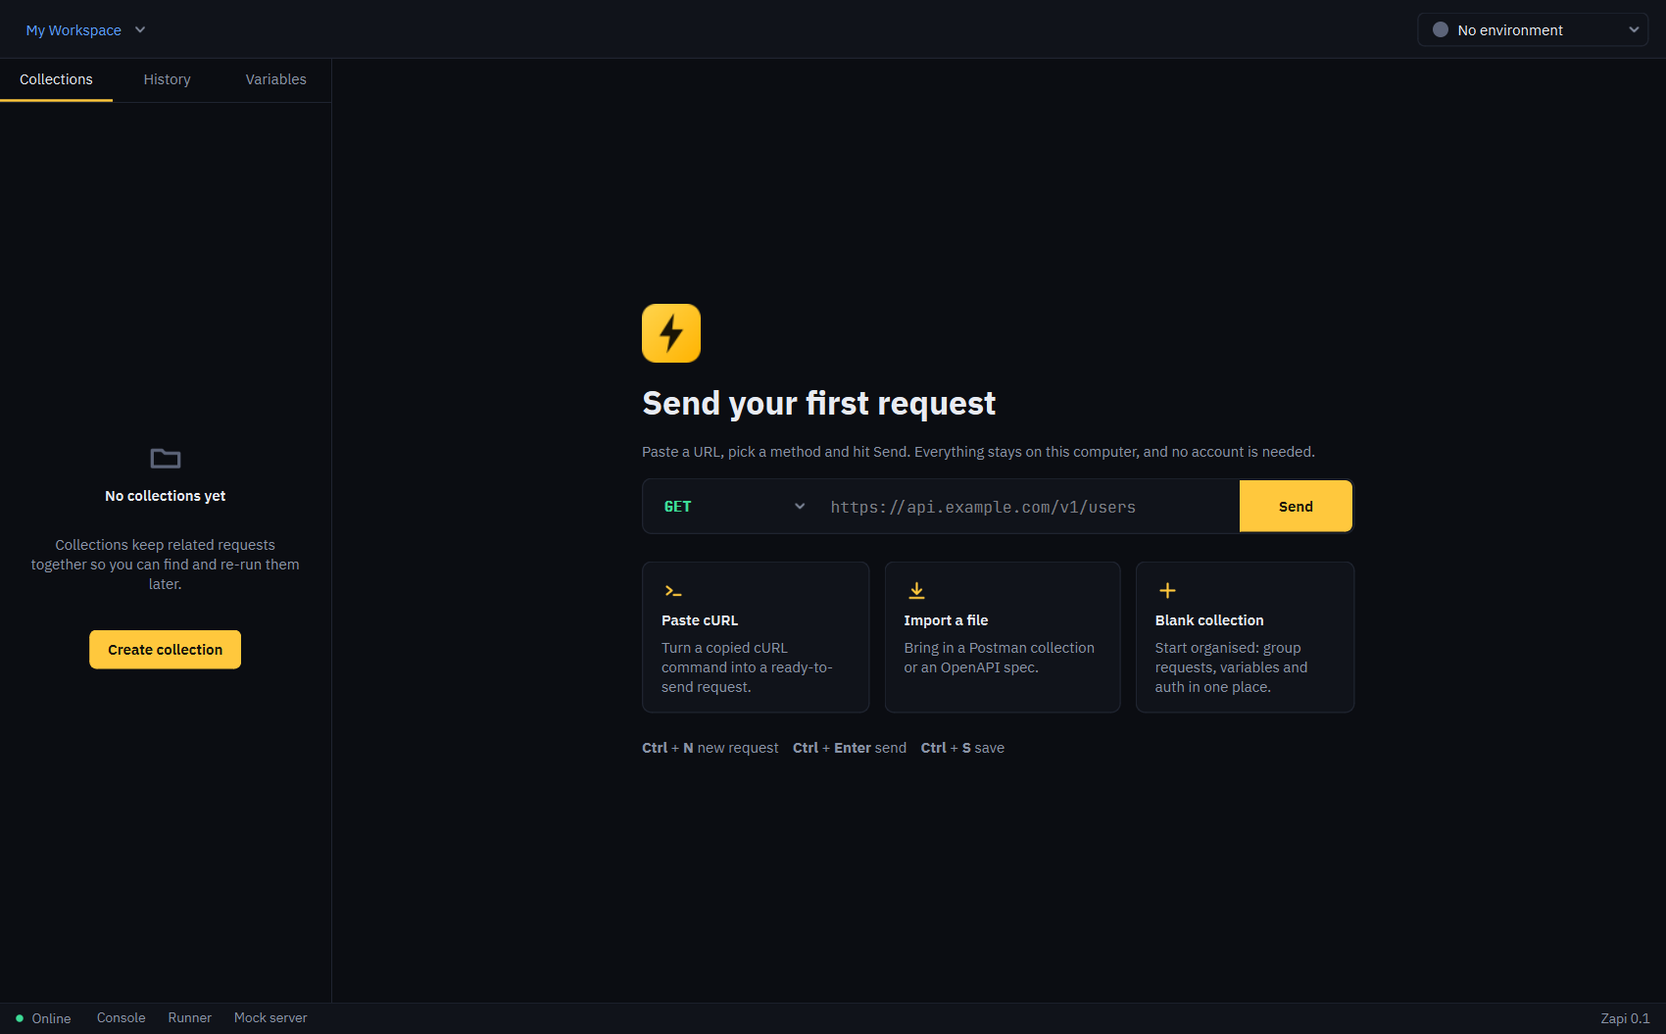
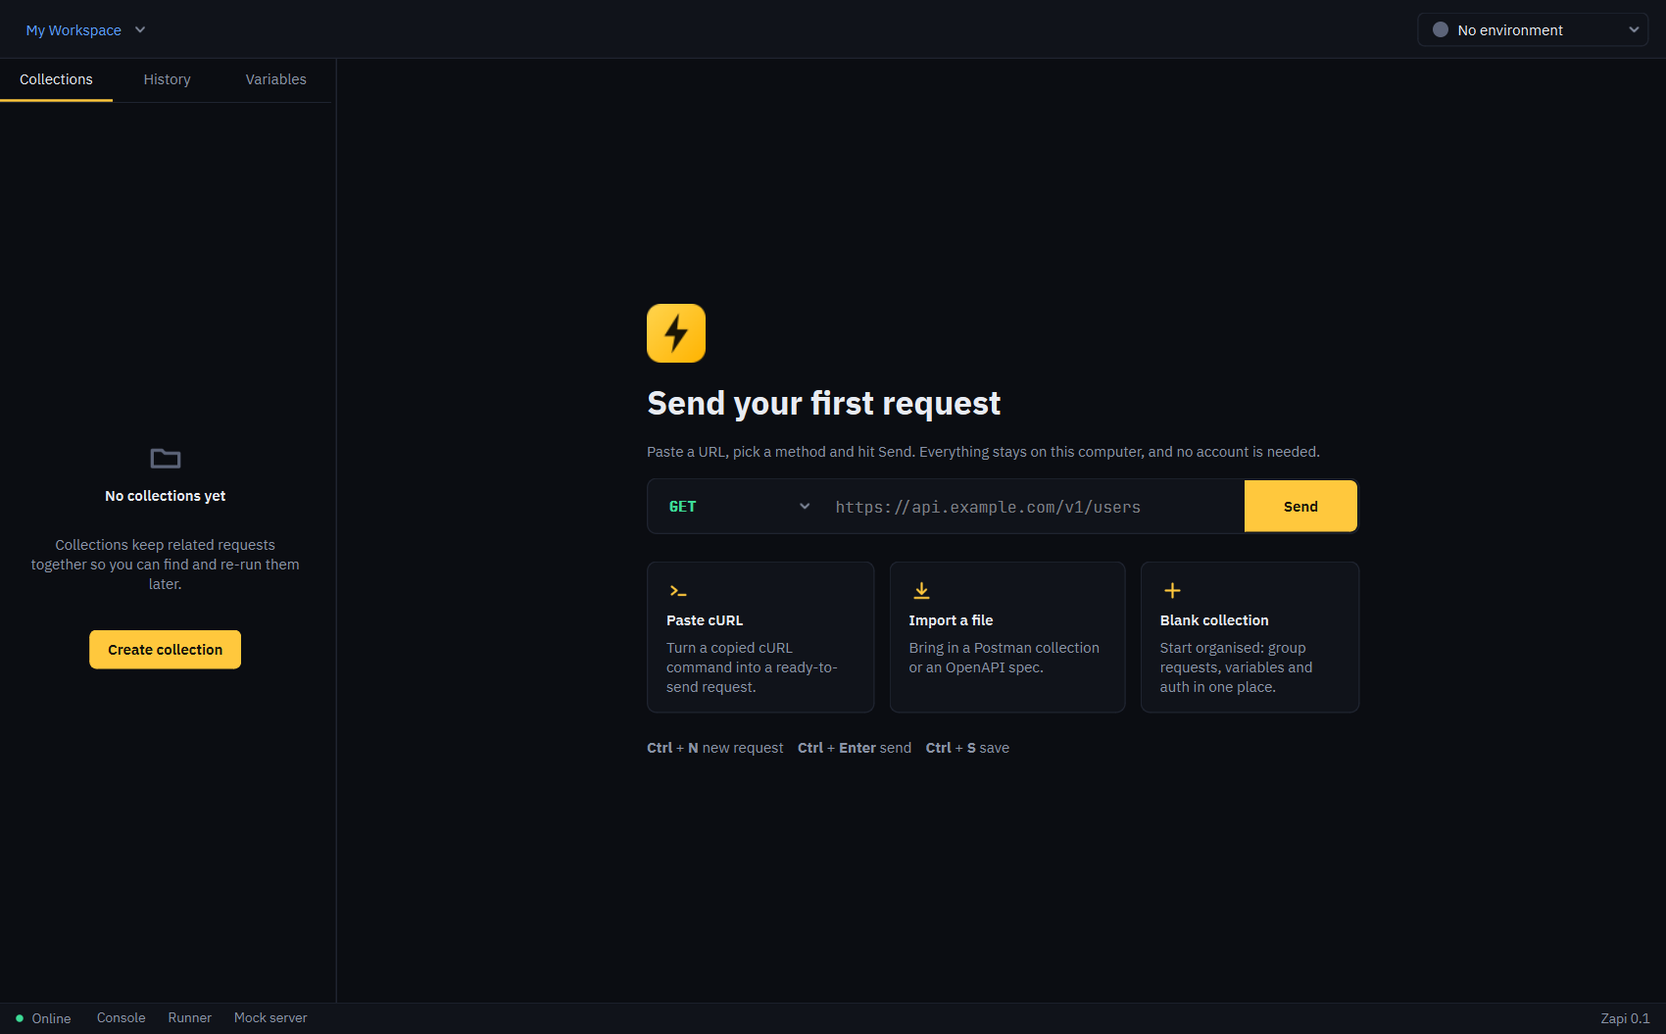
Copy feedback, resizable divider, clearer hints, dropdown hover and light theme fixes
- Copy buttons show a tick and 'Copied' briefly
- Wider request/response divider with hover highlight; panes can be dragged small
- Secret and unresolved-variable hints reworded, auto-hide after 20 s
- Method dropdown: per-verb colours, hover highlight, fixed light-theme background
- Stronger light-theme hover/selection colours with contrast tests
- Refresh screenshots

diff --git a/zapi/request_view.py b/zapi/request_view.py
@@ -16,7 +16,8 @@ from PySide6.QtWidgets import (QApplication, QButtonGroup, QCheckBox, QComboBox,
 from shiboken6 import isValid
 
 from . import curl, http_client, oauth2, store, theme, variable_assist, variables, vault
-from .widgets import CodeEditor, CopyTable, KVEditor, KVTable, Worker, flat, pretty_json, pretty_xml, primary
+from .widgets import (CodeEditor, CopyTable, KVEditor, KVTable, Worker, copy_text, flat, pretty_json, pretty_xml,
+                      primary)
 
 PRETTY_LIMIT = 2 * 1024 * 1024
 
@@ -225,8 +226,11 @@ class RequestView(QWidget):
 
         split = QSplitter(Qt.Vertical)
         split.setChildrenCollapsible(False)
-        split.addWidget(self._build_request_side())
-        split.addWidget(self._build_response_side())
+        top, bottom = self._build_request_side(), self._build_response_side()
+        top.setMinimumHeight(110)               # both halves can be dragged small; without this the layouts' own minimums block it
+        bottom.setMinimumHeight(110)
+        split.addWidget(top)
+        split.addWidget(bottom)
         split.setSizes([330, 300])
         root.addWidget(split, 1)
 
@@ -583,7 +587,7 @@ class RequestView(QWidget):
         if text is None:
             self._say("Nothing to copy yet: send the request first.", ok=False)
             return False
-        QApplication.clipboard().setText(text)
+        copy_text(text, self.copy_btn)
         self._say(f"Copied {names[what]} ({len(text):,} characters)")
         return True
 
@@ -755,7 +759,17 @@ class RequestView(QWidget):
 
     def _style_method(self):
         c = theme.method_color(self.method.currentText())
-        self.method.setStyleSheet(f"color: {c};")
+        # colour only the box itself; the dropdown list keeps normal text and colours each verb by itself
+        self.method.setStyleSheet(f"QComboBox#methodBox {{ color: {c}; }} "
+                                  f"QComboBox#methodBox QAbstractItemView {{ color: {theme.TEXT}; background: {theme.PANEL2}; "
+                                  f"border: 1px solid {theme.BORDER2}; selection-background-color: {theme.SELECTED}; "
+                                  f"selection-color: {theme.TEXT}; padding: 3px; outline: 0; }} "
+                                  f"QComboBox#methodBox QAbstractItemView::item {{ padding: 6px 10px; min-height: 20px; "
+                                  f"border-radius: 4px; }} "
+                                  f"QComboBox#methodBox QAbstractItemView::item:selected {{ background: {theme.SELECTED}; }} "
+                                  f"QComboBox#methodBox QAbstractItemView::item:hover {{ background: {theme.MENU_SEL}; }}")
+        for i in range(self.method.count()):
+            self.method.setItemData(i, QColor(theme.method_color(self.method.itemText(i))), Qt.ForegroundRole)
 
     def _params_changed(self):
         if self._loading:
@@ -867,20 +881,37 @@ class RequestView(QWidget):
                 if n not in missing:
                     missing.append(n)
         if missing:
-            self.warn.setStyleSheet(f"color: {theme.ACCENT}; font-size: 8pt;")
-            self.warn.setText("Unresolved variable" + ("s" if len(missing) > 1 else "") + ": " +
-                              ", ".join(missing) + " - pick an environment or define them under Variables.")
-            self.warn.show()
+            self._advise("Unresolved variable" + ("s" if len(missing) > 1 else "") + ": " + ", ".join(missing) +
+                         ". Select an environment or define them under Variables.")
             return
         risky = [name for name, text in (("pre-request script", r["scripts"]["pre"]), ("tests", r["scripts"]["test"]),
                                          ("body", r["body"]["raw"])) if vault.contains_secret_literal(text)]
         if risky:
-            self.warn.setStyleSheet(f"color: {theme.ACCENT}; font-size: 8pt;")
-            self.warn.setText("The " + " and ".join(risky) + " contain what looks like a secret. It is encrypted on "
-                              "disk and left out of shared exports, but a Secret variable is better: use {{name}} or "
-                              "pm.environment.get('name').")
-            self.warn.show()
+            plural = len(risky) > 1
+            self._advise("The " + " and ".join(risky) + (" contain" if plural else " contains") +
+                         " a value that appears to be a secret. It is encrypted on disk and omitted from shared "
+                         "exports. For stronger protection, store it as a Secret variable and reference it as "
+                         "{{name}} (or pm.environment.get('name') in scripts).")
         else:
+            self._warn_dismissed = None
+            self.warn.hide()
+
+    WARN_SECONDS = 20
+
+    def _advise(self, text):
+        """A persistent hint under the URL bar that hides itself after WARN_SECONDS and stays hidden until it changes."""
+        if text == getattr(self, "_warn_dismissed", None):
+            self.warn.hide()
+            return
+        self.warn.setStyleSheet(f"color: {theme.ACCENT}; font-size: 8pt;")
+        if self.warn.text() != text or not self.warn.isVisible():
+            self.warn.setText(text)
+            QTimer.singleShot(self.WARN_SECONDS * 1000, lambda: self._expire_advice(text))
+        self.warn.show()
+
+    def _expire_advice(self, text):
+        if isValid(self) and self.warn.text() == text:
+            self._warn_dismissed = text
             self.warn.hide()
 
     def refresh_variables(self):

diff --git a/zapi/theme.py b/zapi/theme.py
@@ -18,13 +18,13 @@ PALETTES = {
     "Dark": _DARK,
     "Midnight": {**_DARK, "BG": "#0a0f1e", "PANEL": "#0f1730", "PANEL2": "#151f3f", "FIELD": "#0b1228",
                  "BORDER": "#1b2749", "BORDER2": "#26345f", "TEXT": "#e6ecff", "MUTED": "#8f9bc2",
-                 "FAINT": "#5a6690", "HOVER": "#131d3b", "SELECTED": "#1b2850", "MENU_SEL": "#223261",
+                 "FAINT": "#5a6690", "HOVER": "#131d3b", "SELECTED": "#1b2850", "MENU_SEL": "#202d5b",
                  "BTN_HOVER": "#1c2a52", "LINE_HL": "#111a36", "BLUE": "#6aa5ff", "RED": "#ff6b81"},
     "Light": dict(
         IS_DARK=False, BG="#f6f7f9", PANEL="#ffffff", PANEL2="#eef0f4", FIELD="#ffffff", BORDER="#dfe3ea",
-        BORDER2="#c9cfda", TEXT="#1b2030", MUTED="#5d667a", FAINT="#98a1b3", GREEN="#12894f", RED="#d6334a",
-        BLUE="#2467d8", PURPLE="#7a4fd1", ORANGE="#c4620a", HOVER="#eceff4", SELECTED="#e3e8f1",
-        MENU_SEL="#e3e8f1", BTN_HOVER="#e4e8ef", LINE_HL="#f0f3f8", SYN_STRING="#1a7f4b", SYN_KEY="#1f5fc4",
+        BORDER2="#c9cfda", TEXT="#1b2030", MUTED="#566074", FAINT="#98a1b3", GREEN="#12894f", RED="#d6334a",
+        BLUE="#2467d8", PURPLE="#7a4fd1", ORANGE="#c4620a", HOVER="#e6eaf2", SELECTED="#dae1f1",
+        MENU_SEL="#dae1f1", BTN_HOVER="#dfe4ed", LINE_HL="#f0f3f8", SYN_STRING="#1a7f4b", SYN_KEY="#1f5fc4",
         SYN_NUMBER="#a8570a", SYN_LITERAL="#8a3fc4", M_WS="#0a7f92", M_SSE="#b8346f", M_GRPC="#1b7f75",
         M_SOAP="#8c3aa6"),
     "High contrast": {**_DARK, "BG": "#000000", "PANEL": "#0a0a0a", "PANEL2": "#141414", "FIELD": "#000000",
@@ -240,6 +240,11 @@ def icon(name, color=None, size=18):
     elif name == "copy":
         p.drawRoundedRect(QRectF(s * .34, s * .34, s * .46, s * .46), s * .06, s * .06)
         p.drawPath(_corner(s))
+    elif name == "check":
+        t = QPainterPath(); t.moveTo(s * .22, s * .53); t.lineTo(s * .42, s * .72); t.lineTo(s * .79, s * .3)
+        pen.setWidthF(s * .11)
+        p.setPen(pen)
+        p.drawPath(t)
     elif name == "code":
         a = QPainterPath(); a.moveTo(s * .38, s * .3); a.lineTo(s * .18, s * .5); a.lineTo(s * .38, s * .7)
         b = QPainterPath(); b.moveTo(s * .62, s * .3); b.lineTo(s * .82, s * .5); b.lineTo(s * .62, s * .7)
@@ -540,6 +545,10 @@ QComboBox::drop-down {{ border: none; width: 22px; }}
 QComboBox::down-arrow {{ image: url({chev}); width: 14px; height: 14px; }}
 QComboBox QAbstractItemView {{ background: {PANEL2}; border: 1px solid {BORDER2}; selection-background-color: {MENU_SEL};
   selection-color: {TEXT}; padding: 3px; outline: 0; }}
+QComboBox QFrame {{ background: {PANEL2}; border: none; }}
+QComboBox QAbstractItemView::item {{ padding: 6px 10px; min-height: 20px; border-radius: 4px; }}
+QComboBox QAbstractItemView::item:selected {{ background: {SELECTED}; }}
+QComboBox QAbstractItemView::item:hover {{ background: {MENU_SEL}; }}
 QComboBox#methodBox {{ border: none; border-radius: 0; background: {PANEL2}; font-family: "{mono_family()}"; font-weight: 700; padding-left: 16px; min-width: 70px; }}
 QComboBox#envBox {{ border-radius: 6px; padding: 4px 26px 4px 10px; min-height: 16px; }}
 
@@ -586,9 +595,11 @@ QScrollBar::handle:horizontal {{ background: {BORDER2}; border-radius: 4px; min-
 QScrollBar::add-line, QScrollBar::sub-line {{ width: 0; height: 0; }}
 QScrollBar::add-page, QScrollBar::sub-page {{ background: transparent; }}
 
-QSplitter::handle {{ background: {BORDER}; }}
-QSplitter::handle:vertical {{ height: 1px; }}
-QSplitter::handle:horizontal {{ width: 1px; }}
+QSplitter::handle {{ background: transparent; }}
+QSplitter::handle:vertical {{ height: 9px; background: qlineargradient(x1:0, y1:0, x2:0, y2:1, stop:0 transparent, stop:0.44 transparent, stop:0.45 {BORDER}, stop:0.55 {BORDER}, stop:0.56 transparent, stop:1 transparent); }}
+QSplitter::handle:horizontal {{ width: 9px; background: qlineargradient(x1:0, y1:0, x2:1, y2:0, stop:0 transparent, stop:0.44 transparent, stop:0.45 {BORDER}, stop:0.55 {BORDER}, stop:0.56 transparent, stop:1 transparent); }}
+QSplitter::handle:vertical:hover, QSplitter::handle:vertical:pressed {{ background: qlineargradient(x1:0, y1:0, x2:0, y2:1, stop:0 transparent, stop:0.3 transparent, stop:0.31 {ACCENT}, stop:0.69 {ACCENT}, stop:0.7 transparent, stop:1 transparent); }}
+QSplitter::handle:horizontal:hover, QSplitter::handle:horizontal:pressed {{ background: qlineargradient(x1:0, y1:0, x2:1, y2:0, stop:0 transparent, stop:0.3 transparent, stop:0.31 {ACCENT}, stop:0.69 {ACCENT}, stop:0.7 transparent, stop:1 transparent); }}
 QListWidget#varPopup {{ background: {PANEL2}; border: 1px solid {BORDER2}; border-radius: 6px; padding: 3px; outline: 0; }}
 QListWidget#varPopup::item {{ border-radius: 4px; padding: 0; }}
 QMenu {{ background: {PANEL2}; border: 1px solid {BORDER2}; padding: 4px; border-radius: 6px; }}

diff --git a/tests/test_ui_more.py b/tests/test_ui_more.py
@@ -326,3 +326,57 @@ class ProtocolViewTests(UiBase):
 
 if __name__ == "__main__":
     unittest.main()
+
+
+class SplitterTests(unittest.TestCase):
+    def test_request_and_response_panes_can_be_dragged_both_ways(self):
+        from PySide6.QtWidgets import QSplitter
+        rv = RequestView(store.new_request(url=""))
+        rv.resize(1000, 800)
+        rv.show()
+        app.processEvents()
+        split = rv.findChild(QSplitter)
+        self.assertGreaterEqual(split.handleWidth(), 5)                       # wide enough to grab
+        total = sum(split.sizes())
+        split.moveSplitter(40, 1)                                             # drag the divider all the way up
+        app.processEvents()
+        self.assertLessEqual(split.sizes()[0], 120)
+        self.assertGreaterEqual(split.sizes()[1], total - 140)
+        split.moveSplitter(total, 1)                                          # and all the way down
+        app.processEvents()
+        self.assertLessEqual(split.sizes()[1], 120)
+        self.assertGreaterEqual(split.sizes()[0], total - 140)
+        rv.deleteLater()
+
+
+class CopyFeedbackTests(unittest.TestCase):
+    def test_copy_button_shows_a_tick_then_goes_back(self):
+        from PySide6.QtTest import QTest
+        from zapi import widgets
+        rv = RequestView(store.new_request(url="http://x/y"))
+        rv.show()
+        app.processEvents()
+        before = rv.copy_btn.text()
+        rv.response = None
+        QApplication.clipboard().clear()
+        rv.copy_what("curl")                                                  # the menu path flashes the toolbar button too
+        self.assertIn("curl", QApplication.clipboard().text())
+        self.assertEqual(rv.copy_btn.text().strip(), "Copied")
+        self.assertIn(theme.GREEN, rv.copy_btn.styleSheet())
+        rv.copy_what("curl")                                                  # again while showing: still restores to the original
+        widgets.copy_feedback(rv.copy_btn, ms=50)
+        QTest.qWait(400)
+        self.assertEqual(rv.copy_btn.text(), before)
+        self.assertEqual(rv.copy_btn.styleSheet(), "")
+        self.assertIsNone(rv.copy_btn.graphicsEffect())
+        rv.copy_what("body")                                                  # nothing to copy yet: no tick
+        self.assertEqual(rv.copy_btn.text(), before)
+
+    def test_feedback_on_a_deleted_button_is_harmless(self):
+        from PySide6.QtWidgets import QPushButton
+        from zapi import widgets
+        b = QPushButton("Copy")
+        widgets.copy_feedback(b, ms=20)
+        b.deleteLater()
+        app.processEvents()
+        widgets.copy_feedback(None)

diff --git a/zapi/widgets.py b/zapi/widgets.py
@@ -536,6 +536,54 @@ class CopyTable(QTableWidget):
         m.exec(self.viewport().mapToGlobal(pos))
 
 
+def copy_feedback(button, label="Copied", ms=1500):
+    """After a copy: the button turns green with a tick and 'Copied', then goes back. Safe to call again while it shows."""
+    import shiboken6
+    from PySide6.QtCore import QPropertyAnimation, QTimer
+    from PySide6.QtWidgets import QGraphicsOpacityEffect
+    if button is None or not shiboken6.isValid(button):
+        return
+    saved = button.property("_copy_saved")
+    if saved is None:                                           # first call: remember how the button looked
+        saved = (button.text(), button.icon(), button.styleSheet(), button.minimumWidth())
+        button.setProperty("_copy_saved", saved)
+        button.setMinimumWidth(max(button.width(), button.sizeHint().width()))      # no jumping around
+    button.setText("  " + label)
+    button.setIcon(theme.icon("check", theme.GREEN, 14))
+    button.setStyleSheet(f"QPushButton {{ color: {theme.GREEN}; border: 1px solid {theme.GREEN}; }}")
+    fx = QGraphicsOpacityEffect(button)                         # a short pop so it is noticed
+    button.setGraphicsEffect(fx)
+    anim = QPropertyAnimation(fx, b"opacity", button)
+    anim.setDuration(260)
+    anim.setStartValue(0.35)
+    anim.setEndValue(1.0)
+    anim.finished.connect(lambda: shiboken6.isValid(button) and button.setGraphicsEffect(None))
+    anim.start(QPropertyAnimation.DeleteWhenStopped)
+    old = button.property("_copy_timer")
+    if old is not None and shiboken6.isValid(old):
+        old.stop()
+    timer = QTimer(button)
+    timer.setSingleShot(True)
+
+    def restore():
+        s = button.property("_copy_saved")
+        if s is not None:
+            button.setText(s[0])
+            button.setIcon(s[1])
+            button.setStyleSheet(s[2])
+            button.setMinimumWidth(s[3])
+            button.setProperty("_copy_saved", None)
+    timer.timeout.connect(restore)
+    button.setProperty("_copy_timer", timer)
+    timer.start(ms)
+
+
+def copy_text(text, button=None):
+    """Put text on the clipboard and show the tick on `button`."""
+    QApplication.clipboard().setText(text)
+    copy_feedback(button)
+
+
 def primary(button: QPushButton, radius=""):
     """Amber call-to-action. It carries its own stylesheet because container rules such as
     `#sidebar QWidget {background: transparent}` would otherwise blank it."""

diff --git a/zapi/proto_views.py b/zapi/proto_views.py
@@ -10,7 +10,7 @@ from PySide6.QtWidgets import (QApplication, QCheckBox, QComboBox, QFormLayout, 
                                QTableWidget, QTableWidgetItem, QTextBrowser, QVBoxLayout, QWidget)
 
 from . import grpc_client, protocols, store, theme, variable_assist, variables
-from .widgets import CodeEditor, KVEditor, KVTable, Worker, flat, pretty_json, primary
+from .widgets import CodeEditor, KVEditor, KVTable, Worker, copy_text, flat, pretty_json, primary
 
 
 def _esc(s):
@@ -177,8 +177,8 @@ class MessageLog(QWidget):
         self.filter.setFixedWidth(200)
         self.filter.textChanged.connect(self._render)
         copy_btn = QPushButton("Copy")
-        copy_btn.clicked.connect(lambda: QApplication.clipboard().setText(
-            "\n".join(f"[{t}] {d} {x}" for t, d, x, _k in self.entries)))
+        copy_btn.clicked.connect(lambda: copy_text(
+            "\n".join(f"[{t}] {d} {x}" for t, d, x, _k in self.entries), copy_btn))
         clear = QPushButton("Clear")
         clear.clicked.connect(self.clear)
         row.addWidget(title)
@@ -302,8 +302,11 @@ class StreamView(ProtoBase):
 
         split = QSplitter(Qt.Vertical)
         split.setChildrenCollapsible(False)
-        split.addWidget(self._build_options())
+        opts = self._build_options()
+        opts.setMinimumHeight(110)
+        split.addWidget(opts)
         self.log = MessageLog()
+        self.log.setMinimumHeight(110)
         split.addWidget(self.log)
         split.setSizes([260, 320])
         lay.addWidget(split, 1)
@@ -828,7 +831,7 @@ class GrpcView(ProtoBase):
         self.time_lb = QLabel("")
         self.time_lb.setObjectName("muted")
         copy_btn = QPushButton("Copy")
-        copy_btn.clicked.connect(lambda: QApplication.clipboard().setText(self.response.toPlainText()))
+        copy_btn.clicked.connect(lambda: copy_text(self.response.toPlainText(), copy_btn))
         head.addWidget(title)
         head.addWidget(self.pill)
         head.addWidget(self.time_lb)

diff --git a/tests/test_vault2.py b/tests/test_vault2.py
@@ -353,3 +353,35 @@ class UiFlowTests(unittest.TestCase):
 
 if __name__ == "__main__":
     unittest.main()
+
+
+class WarningBehaviourTests(unittest.TestCase):
+    def test_secret_warning_is_worded_properly_and_hides_itself(self):
+        from PySide6.QtTest import QTest
+        from zapi.request_view import RequestView
+        RequestView.WARN_SECONDS = 0.1
+        try:
+            v = RequestView(tricky_request(), values_provider=lambda cid: {"token": "t", "hint": "h"})
+            v.show()
+            v._check_variables()
+            text = v.warn.text()
+            self.assertIn("appears to be a secret", text)
+            self.assertNotIn("what looks like", text)
+            self.assertIn("contain a value", text)                      # two places: plural
+            self.assertTrue(v.warn.isVisible())
+            QTest.qWait(400)
+            self.assertFalse(v.warn.isVisible())
+            v._check_variables()                                        # editing elsewhere must not bring it straight back
+            self.assertFalse(v.warn.isVisible())
+            v.req["scripts"]["pre"] = v.req["scripts"]["test"] = ""
+            v.req["body"]["raw"] = "plain"
+            v.script_pre.setPlainText("")
+            v.script_test.setPlainText("")
+            v.raw.setPlainText("plain")
+            v._check_variables()                                        # problem fixed ...
+            v.raw.setPlainText('{"password": "hunter2hunter2"}')
+            v._check_variables()                                        # ... and back again: warn again
+            self.assertTrue(v.warn.isVisible())
+            self.assertIn("body contains", v.warn.text())
+        finally:
+            del RequestView.WARN_SECONDS

diff --git a/tests/test_theme.py b/tests/test_theme.py
@@ -50,6 +50,19 @@ class PaletteTests(unittest.TestCase):
                 self.assertGreaterEqual(contrast(theme.ACCENT, theme.BG), 3.0, (name, accent, "accent vs bg"))
                 self.assertGreaterEqual(contrast(theme.ACCENT_TEXT, theme.ACCENT_HOVER), 4.5, (name, accent, "hover"))
 
+    def test_text_stays_readable_on_hover_and_selected_rows(self):
+        for name in theme.PALETTES:
+            theme.apply(name)
+            for bg in (theme.HOVER, theme.SELECTED, theme.MENU_SEL, theme.BTN_HOVER):
+                self.assertGreaterEqual(contrast(theme.TEXT, bg), 7.0, (name, "text", bg))
+                self.assertGreaterEqual(contrast(theme.MUTED, bg), 4.5, (name, "muted", bg))
+            for bg in (theme.MENU_SEL, theme.SELECTED):
+                for verb in ("GET", "POST", "PUT", "PATCH", "DELETE", "HEAD", "OPTIONS"):
+                    self.assertGreaterEqual(contrast(theme.method_color(verb), bg), 3.0, (name, verb, bg))
+            # a hover must be visible against the panel it appears on
+            for bg in (theme.PANEL, theme.PANEL2, theme.BG):
+                self.assertGreaterEqual(contrast(theme.MENU_SEL, bg), 1.1, (name, "hover visible", bg))
+
     def test_high_contrast_meets_aaa(self):
         theme.apply("High contrast")
         self.assertGreaterEqual(contrast(theme.TEXT, theme.BG), 15)

diff --git a/zapi/dialogs.py b/zapi/dialogs.py
@@ -10,7 +10,7 @@ from PySide6.QtWidgets import (QApplication, QCheckBox, QComboBox, QDialog, QDia
                                QVBoxLayout, QWidget)
 
 from . import curl, executor, importers, mock, runner, store, theme, vault
-from .widgets import CodeEditor, CopyTable, KVTable, primary
+from .widgets import CodeEditor, CopyTable, KVTable, copy_text, primary
 
 
 class SendThread(QThread):
@@ -140,7 +140,7 @@ class CodeDialog(QDialog):
         row.addWidget(self.lang)
         row.addStretch(1)
         copy = QPushButton("Copy")
-        copy.clicked.connect(lambda: QApplication.clipboard().setText(self.view.toPlainText()))
+        copy.clicked.connect(lambda: copy_text(self.view.toPlainText(), copy))
         row.addWidget(copy)
         lay.addLayout(row)
         self.view = CodeEditor(read_only=True)

diff --git a/CHANGELOG.md b/CHANGELOG.md
@@ -7,6 +7,9 @@
 - JavaScript pre-request and test scripts (`pm` API); `zapi-cli run` for CI with JSON / JUnit reports.
 - Import: cURL (bash / cmd), `fetch()`, Postman, OpenAPI. Export: Zapi JSON, Postman v2.1, history, full backup.
 - Themes: System, Dark, Light, Midnight, High contrast, with accent colours and editor font size.
+- Dropdown lists (HTTP method and other selectors) highlight the row under the pointer, each method keeps its own colour, and the light theme's popup background and hover/selection colours are fixed and contrast-tested.
+- The "secret in body or script" and "unresolved variable" hints are worded more clearly and hide themselves after 20 seconds (they return only if the problem changes).
+- Copy buttons turn green with a tick and "Copied" for a moment. The divider between request and response is wider, highlights on hover, and both panes can be dragged small.
 - History is grouped by day (Today, Yesterday, weekday, date), newest first. The Variables tab in the sidebar and each environment editor now have a search (by name or value; secret values are never matched).
 - Variables: hover a `{{variable}}` to see its value and scope (secrets masked); typing `{{` (or Ctrl+Space) lists existing variables, filtered as you type, in the URL, headers, params, body, auth and bulk-edit fields.
 - Bulk Edit for Headers, Params and form-urlencoded bodies (also WebSocket / SSE / gRPC headers): paste a block of `Key: Value`
